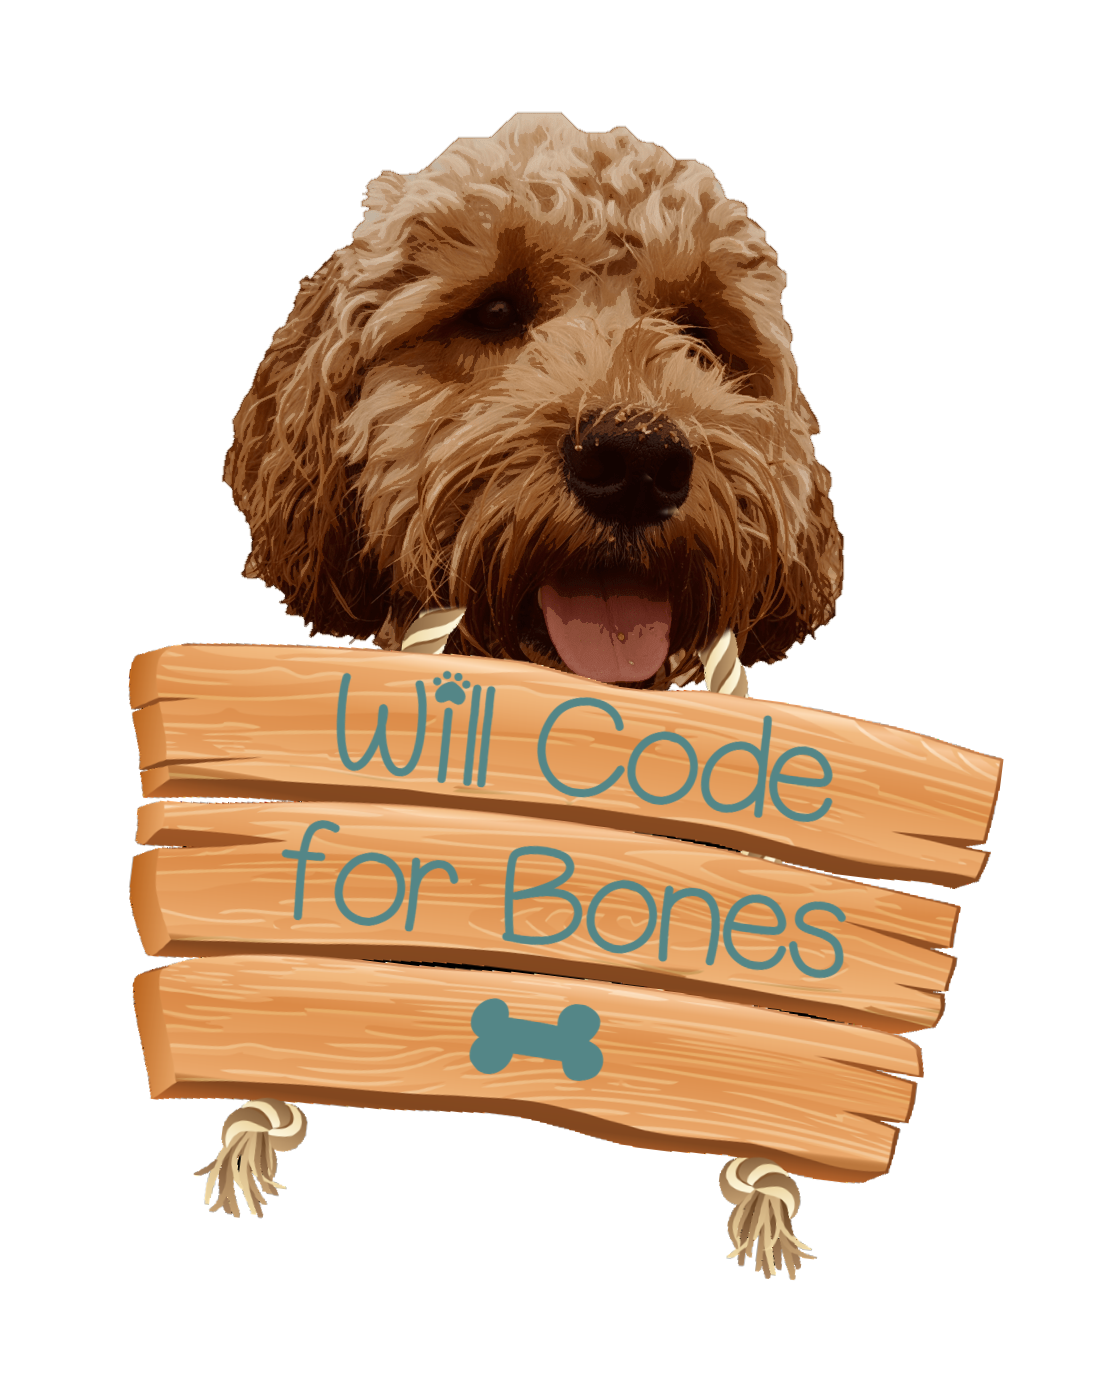
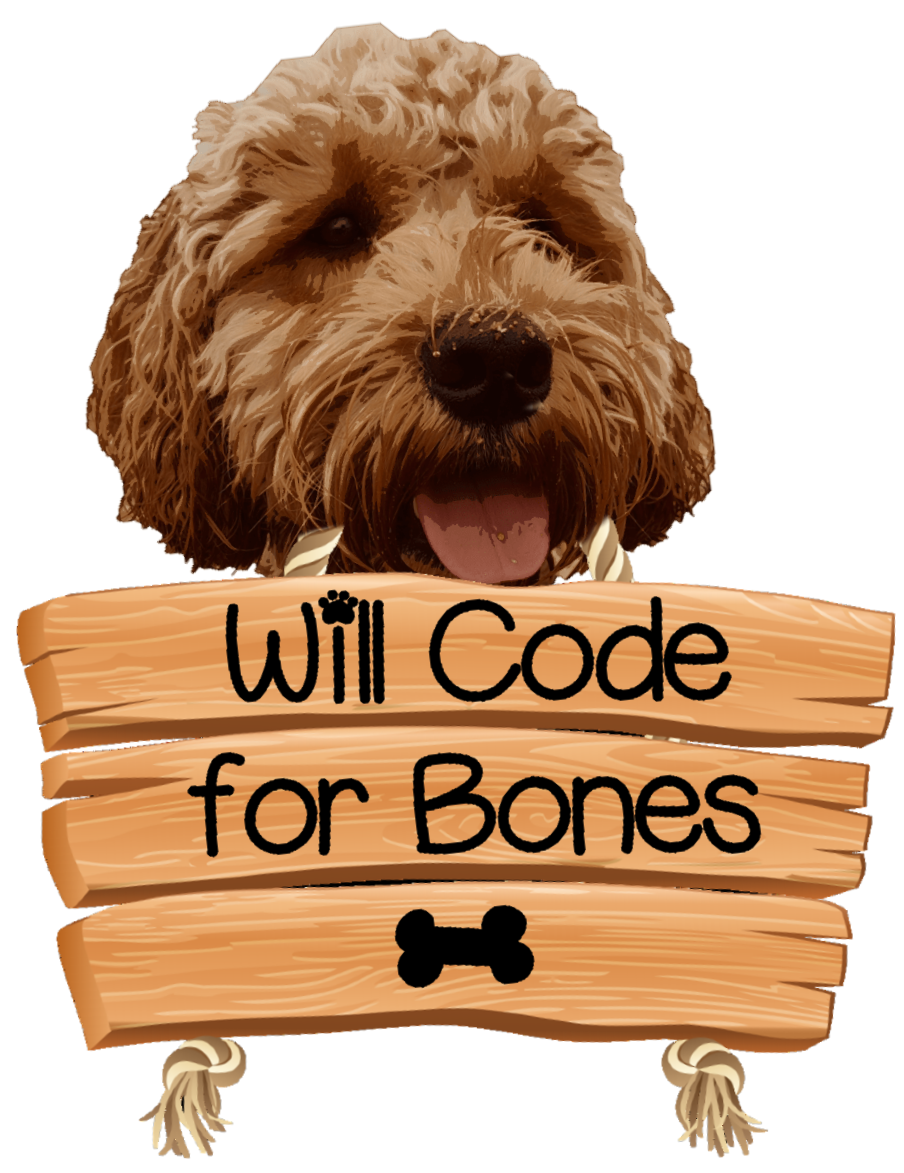
updated homepage

diff --git a/css/style.css b/css/style.css
@@ -41,56 +41,42 @@ body {
 
 /* INDEX STYLES */
 
-/* all content within wrapper */
 .wrapper {
-  /* this border is for the header instead of the nav bar */
-  /* border-top: 45px solid #7dcd90; */
-  /* rgb to get the white background a little transparent */
-  background: rgb(255, 255, 255, 0.8);
-  margin: 3% 10%;
+  display: flex;
+  flex-direction: column;
+  justify-content: center;
+  align-items: center;
+  background-color: #ffffff90;
+  margin: 3% 20%;
   border-radius: 5px;
 }
-
-.title-background {
-  background: url("../img/dug-with-sign.png") no-repeat;
-  background-position: center;
-  background-size: 500px;
-}
-.h1-dug {
-  font-family: "Dog Font";
-  font-size: 100px;
-  text-transform: uppercase;
-}
-.main-content h1 {
-  font-family: "Paw Font";
-  font-size: 55px;
-  letter-spacing: 1px;
-  line-height: 5rem;
-  padding: 8% 0;
-  background-color: rgb(255, 255, 255, 0.5);
-  border-radius: 5px;
+.dug-logo {
+  width: 450px;
+  height: auto;
+  padding: 2.5% 0;
 }
 
-/* homepage play button styles */
+/* play button styles */
 
 .play-button {
   cursor: pointer;
   border-radius: 10px;
   background-color: #7dcd90;
-  border: none;
+  border: 2px solid #7dcd90;
 
-  margin: 1.5%;
   padding: 2% 2.5%;
+  margin-bottom: 4%;
 
   transition: transform 0.8s;
 }
 .play-button:hover {
   transform: rotate(3deg);
   background-color: #eca802;
+  border: 2px solid #eca802;
 }
 .play-button a {
   font-family: "Paw Font";
-  font-size: 50px;
+  font-size: 40px;
   color: black;
   letter-spacing: 1.5px;
   text-decoration: none;

diff --git a/index.html b/index.html
@@ -20,22 +20,22 @@
 
   <body id="body">
     <!-- all content within wrapper -->
-    <div class="wrapper">
-      <!-- welcome section -->
-      <main class="main-content">
+
+    <!-- welcome section -->
+    <main>
+      <div class="wrapper">
         <img
+          class="dug-logo"
           src="img/dug-with-sign.png"
           alt="Dog holding a sign in his mouth saying, will code for bones"
         />
-        <!-- play button section -->
-        <div class="bone-wrapper">
-          <!-- play button will lead to instructions page -->
-          <button class="play-button">
-            <a href="instructions.html">Click here to play!</a>
-          </button>
-        </div>
-      </main>
-    </div>
+        <!-- play button will lead to instructions page -->
+        <button class="play-button">
+          <a href="instructions.html">Click here to play!</a>
+        </button>
+      </div>
+    </main>
+
     <script src="js/main.js"></script>
   </body>
 </html>
